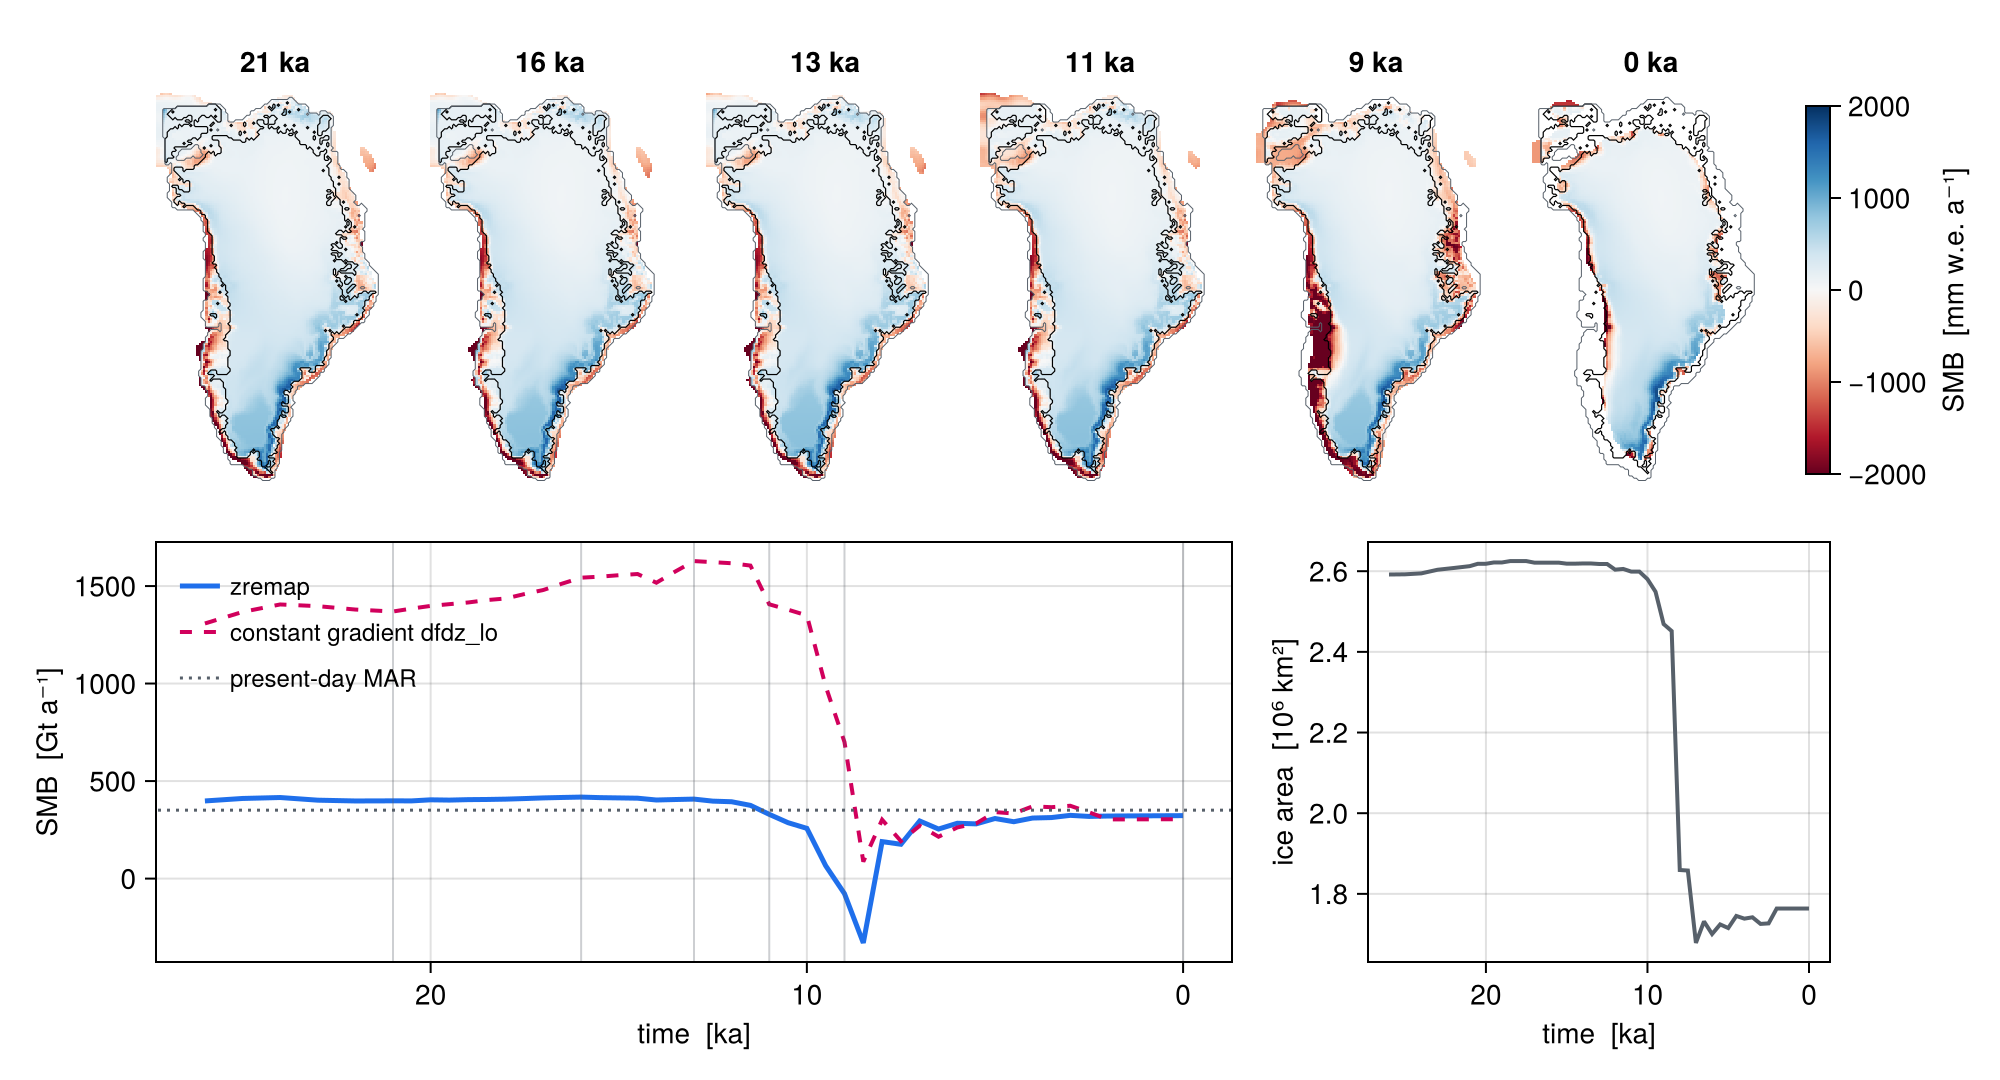
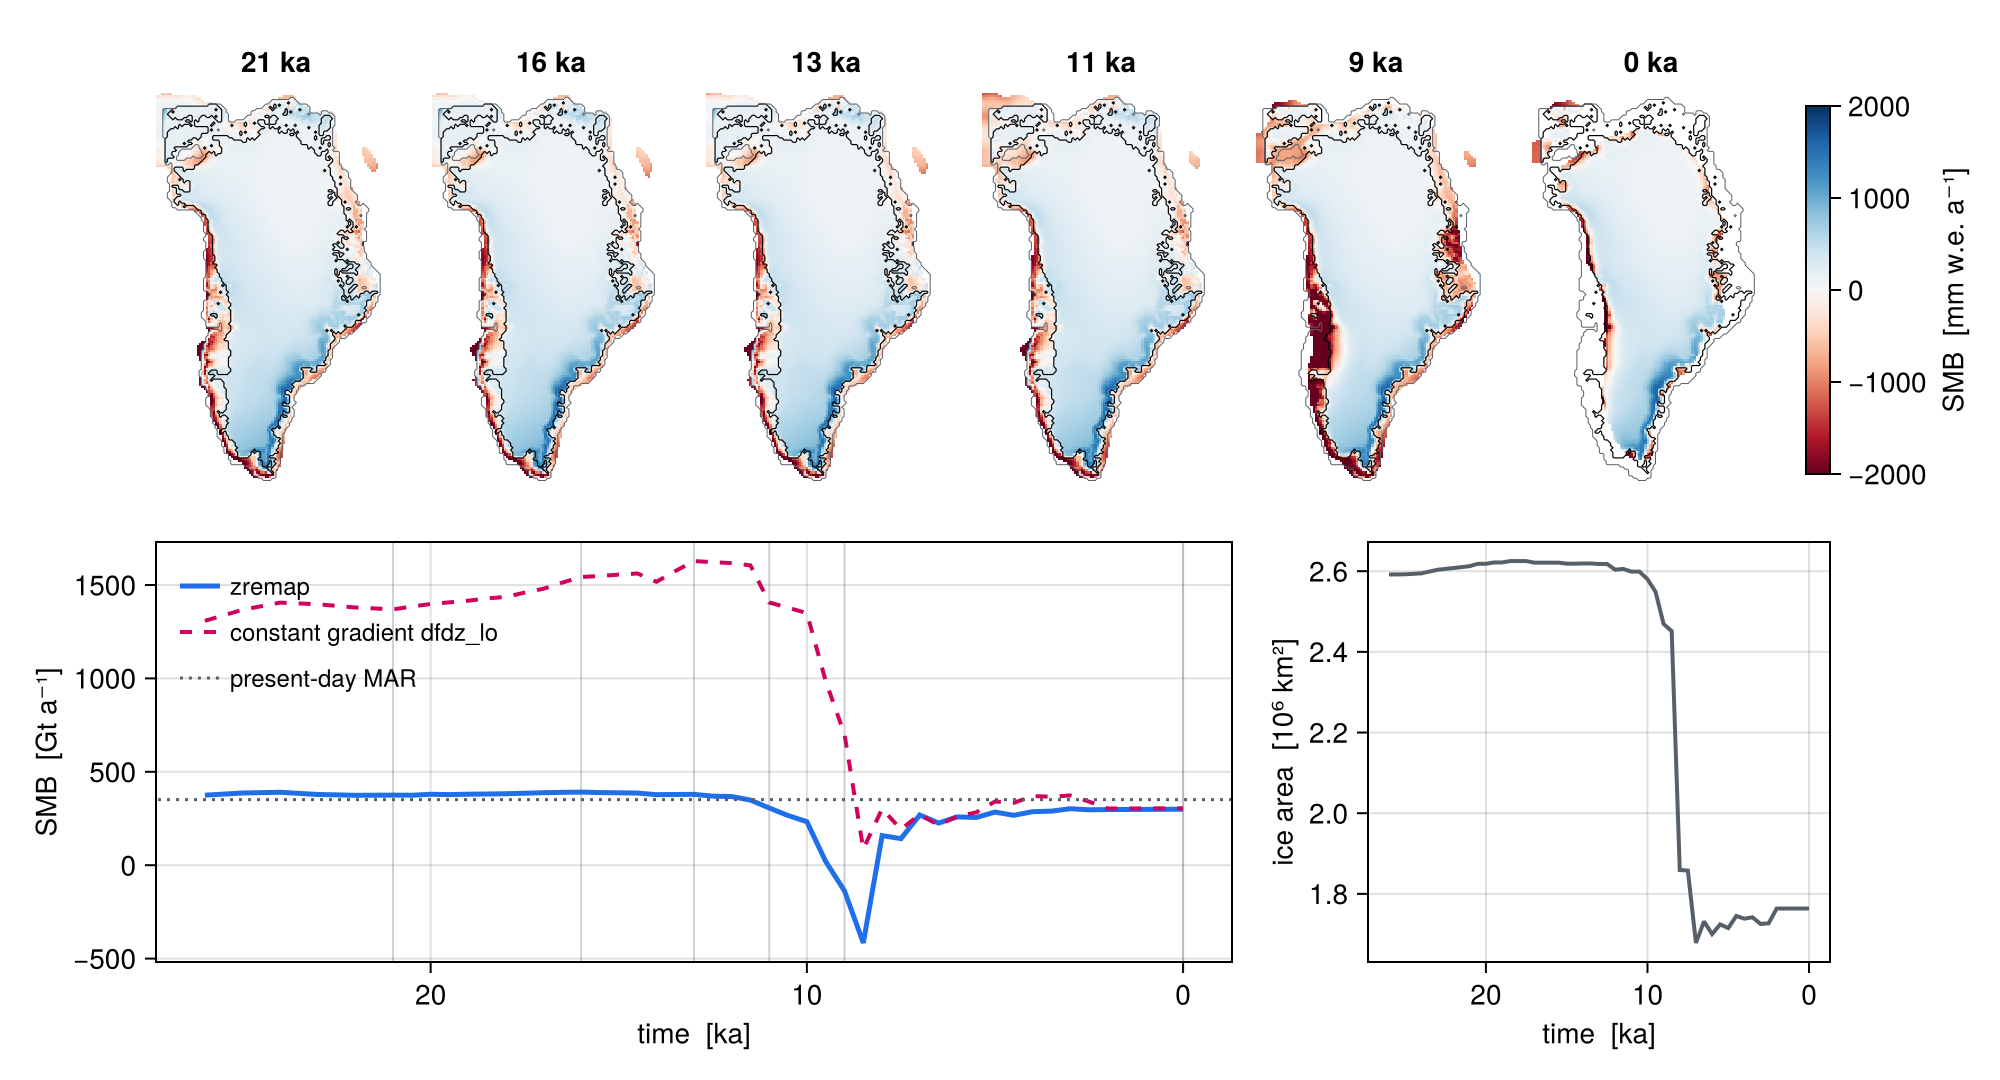
docs: zremap sigma_z, figures with sigma_z = 200 m

diff --git a/CHANGELOG.md b/CHANGELOG.md
@@ -24,7 +24,8 @@ All notable changes to fesm-utils are documented here.
   `zremap_update` builds local f(z) profiles from a reference state (f_ref, z_ref,
   mask_ref) in a Gaussian neighbourhood of width `sigma` (cf. Goelzer et al., 2020,
   with a radius instead of basins); `zremap_map` evaluates them at z_now. Tables every
-  `stride` points, end gradients `dfdz_lo`/`dfdz_hi`. The profiles are blended with
+  `stride` points, smoothing of the profiles along z (`sigma_z`), end gradients
+  `dfdz_lo`/`dfdz_hi`. The profiles are blended with
   the fallback f_ref + dfdz_lo*(z_now-z_ref) by the data support W (kernel weight of
   the data, 0-1): alpha = min(1, W/w_full), so the field fades continuously to the
   fallback away from the data. Optional `dz_ext` from `zremap_map`: elevation distance
